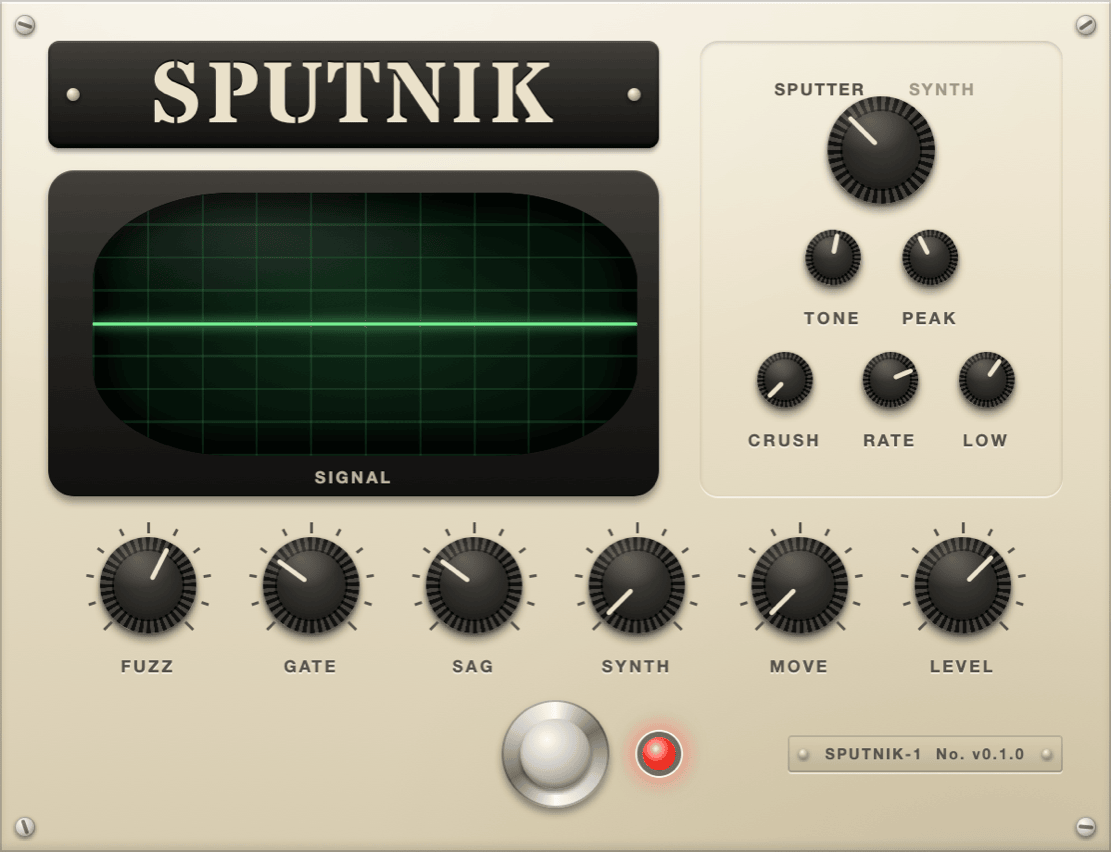
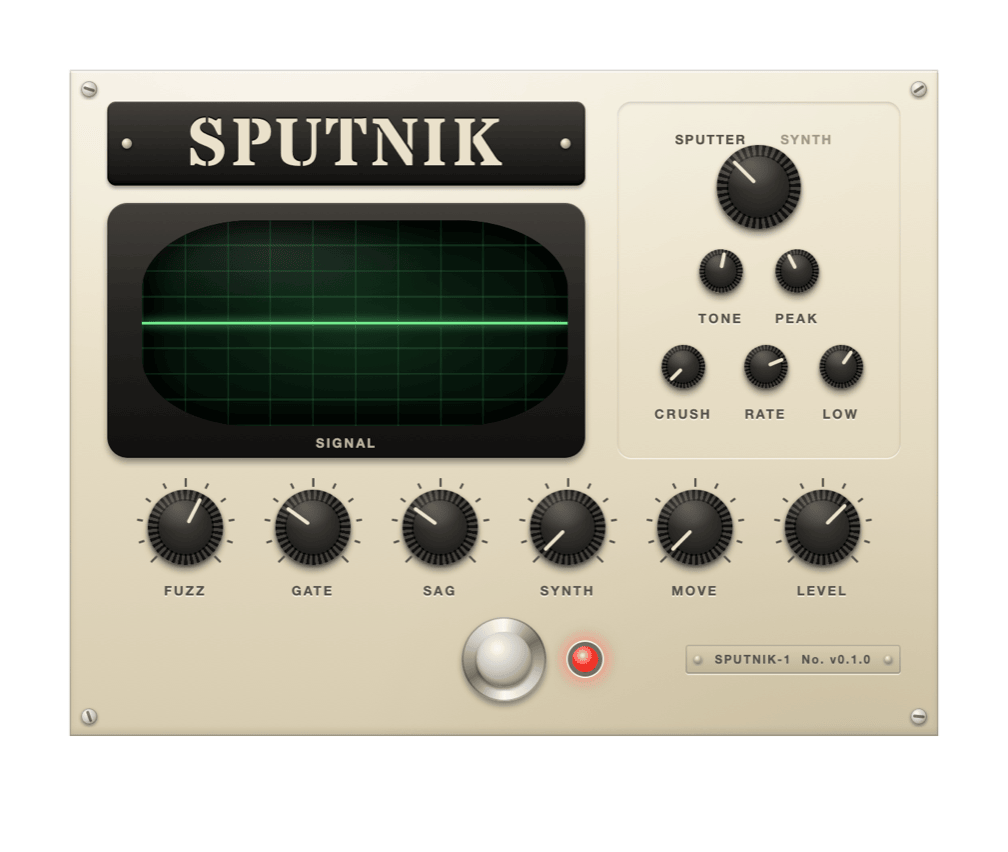
Leave room in screenshots for the drop shadow
On a transparent background the object's drop shadow was cut off at
the window's edge. The capture now pads the window by 48 px on the top
and sides and 80 px below, and lets html and body overflow so the
shadow isn't clipped.

Claude-Session: https://claude.ai/code/session_01M6vpxR81VaPY9T4oUmhAa4

diff --git a/README.md b/README.md
@@ -1,6 +1,6 @@
 # Sputnik
 
-<img src="docs/sputnik.png" width="555" alt="Sputnik, a cream enamel mission-control console with a stencilled SPUTNIK badge, a green phosphor oscilloscope showing the output, a Sputter/Synth selector with tone, peak, crush, rate and low trims, a row of fuzz, gate, sag, synth, move and level bakelite knobs, a centred footswitch with a red lamp, and a riveted ID plate">
+<img src="docs/sputnik.png" width="504" alt="Sputnik, a cream enamel mission-control console with a stencilled SPUTNIK badge, a green phosphor oscilloscope showing the output, a Sputter/Synth selector with tone, peak, crush, rate and low trims, a row of fuzz, gate, sag, synth, move and level bakelite knobs, a centred footswitch with a red lamp, and a riveted ID plate">
 
 A digital synth fuzz for guitar and bass, as a VST3 and CLAP plugin for
 macOS and Windows. A square-wave fuzz that chokes and sputters, with an
